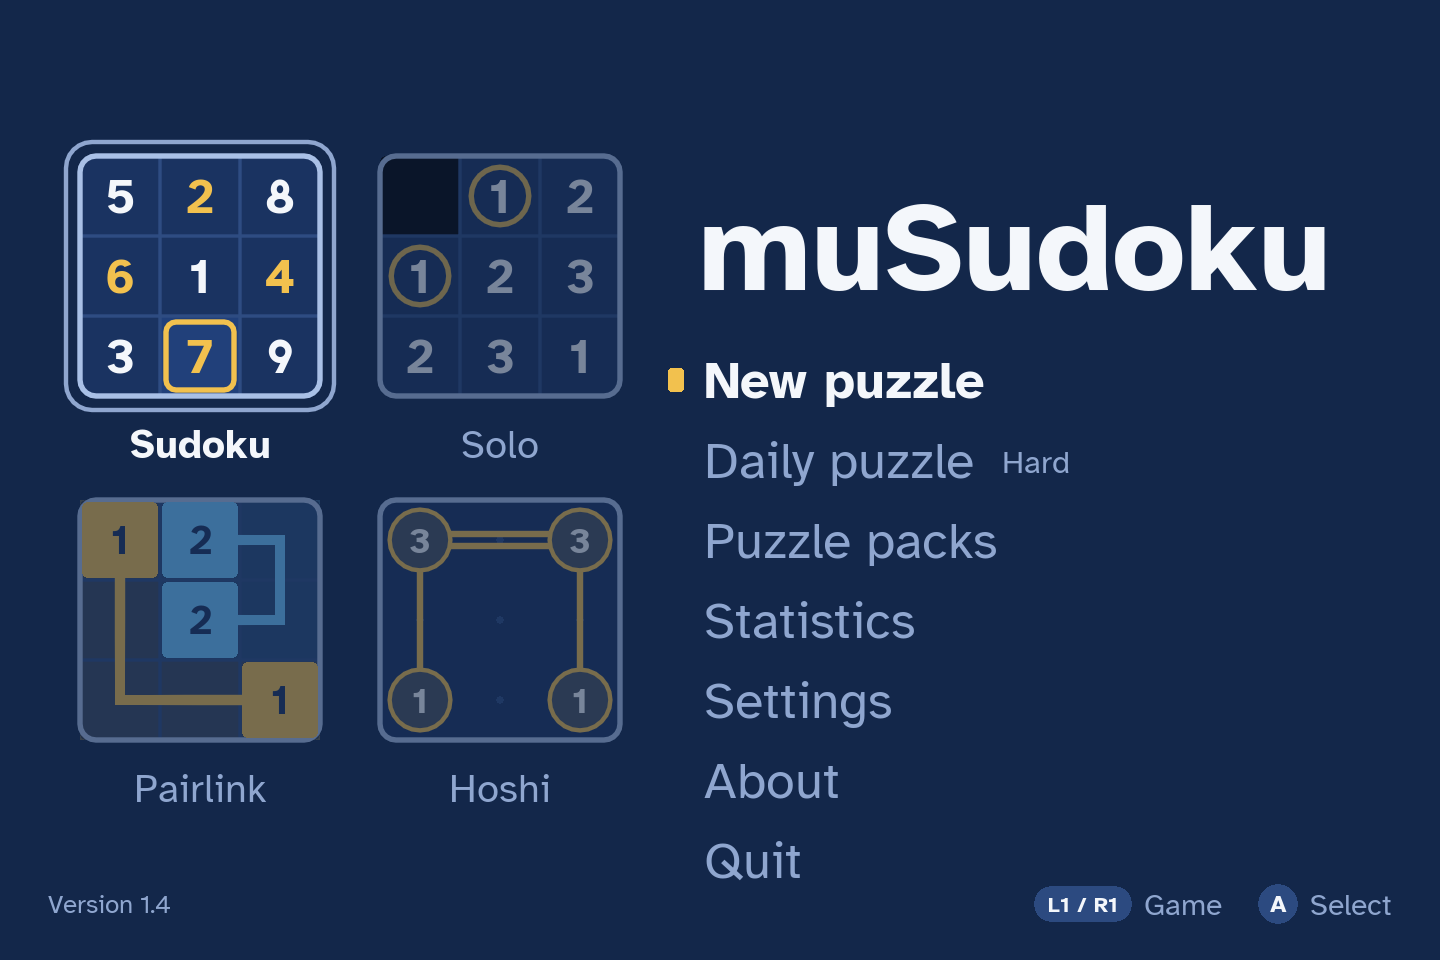
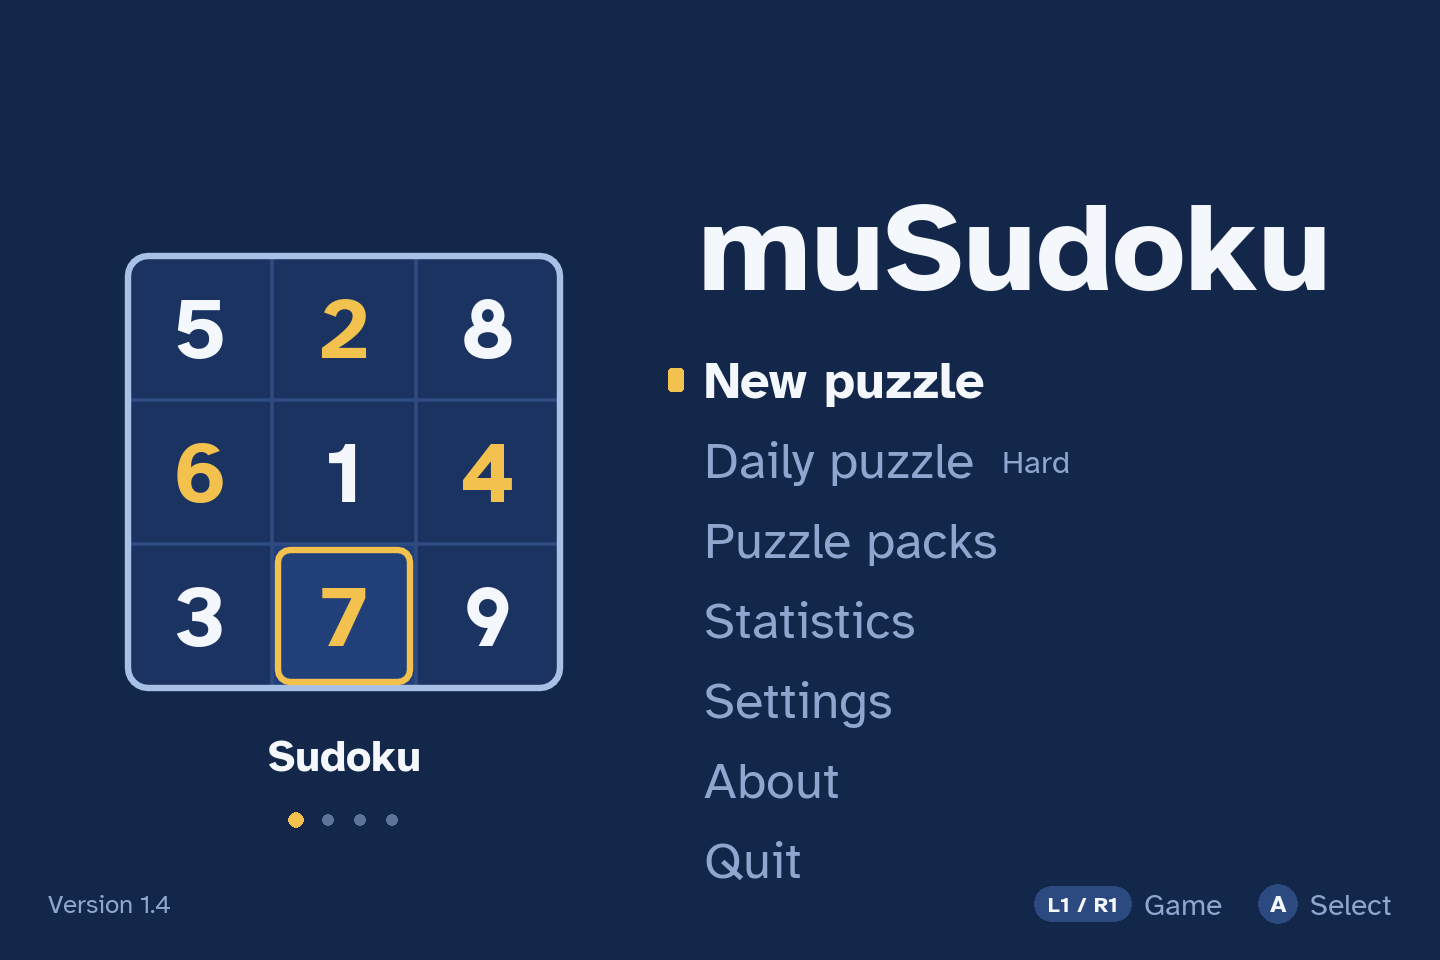
Open the title on Sudoku, switch games with L1 / R1
The title screen showed a box for each of the four games, and remembered
the last one chosen. It now shows one box, the current game's demo, with
its name and a dot per game under it. Every launch starts on Sudoku;
L1 / R1 cycle through Solo, Pairlink and Hoshi and back, and the choice
lasts until the game closes, so it's no longer a saved setting. The
D-pad stays in the menu.

At the bigger size Hoshi's demo hides the water under each bridge, so the
dot between the double bridge's lines no longer shows.

Claude-Session: https://claude.ai/code/session_01J3G1vV3xf6Wx5AMvXjRcVM

diff --git a/README.md b/README.md
@@ -1,12 +1,12 @@
 # muSudoku
 
 Four logic puzzles for handhelds, built with LÖVE 11.5: **Sudoku**, **Solo**,
-**Pairlink** and **Hoshi**. The title screen shows a box for each; pick one with L1 / R1,
-or press left and move between the boxes with the D-pad. It runs on
+**Pairlink** and **Hoshi**. The title screen opens on Sudoku, and L1 / R1 switch to the
+other games. It runs on
 MustardOS, and on other handheld systems through PortMaster. Designed for the Anbernic
 RG34XXSP's 720×480 screen and scaled to fit other resolutions.
 
-<img src="screenshots/title.png" alt="Title screen: a box for each of the four games on the left, with Sudoku chosen" width="49%"> <img src="screenshots/play.png" alt="Sudoku: a Hard puzzle with pencil notes" width="49%">
+<img src="screenshots/title.png" alt="Title screen: a Sudoku box on the left, with the menu beside it" width="49%"> <img src="screenshots/play.png" alt="Sudoku: a Hard puzzle with pencil notes" width="49%">
 <img src="screenshots/hint.png" alt="Sudoku: an explained hint, a naked pair, with the notes it rules out crossed off" width="49%"> <img src="screenshots/solo.png" alt="Solo: a 7×7 Medium puzzle part way through, black shaded cells with rings on the cells kept beside them, and the numbers that still repeat tinted" width="49%">
 <img src="screenshots/pairlink.png" alt="Pairlink: an 8×8 Medium puzzle with six of nine pairs linked and a line being drawn" width="49%"> <img src="screenshots/hoshi.png" alt="Hoshi: a 9×9 Medium puzzle part way through, with a bridge being drawn from an island" width="49%">
 
@@ -65,8 +65,7 @@ runtime that PortMaster already includes.
 
 | Button | What it does |
 |---|---|
-| L1 / R1 on the title screen | Pick a game: Sudoku, Solo, Pairlink or Hoshi |
-| Left on the title screen | Move to the game boxes: the D-pad picks one, A (or right from the right-hand boxes) goes back to the menu |
+| L1 / R1 on the title screen | Switch games: Sudoku, Solo, Pairlink, Hoshi and round again. The title opens on Sudoku |
 | Start / Menu | Pause menu |
 | Menu + Start | Save and quit |
 
@@ -494,7 +493,7 @@ are off. Turning sound on later loads them then.
 `MUSUDOKU_FXSHOTS=1 love game` captures the completion effects mid-animation.
 
 `MUSUDOKU_GAMESHOTS=1 love game` plays through the Solo, Pairlink and Hoshi screens
-(the title's game boxes, new puzzle, play, a link effect, drawing bridges, pause, wins
+(the title with each game, new puzzle, play, a link effect, drawing bridges, pause, wins
 and statistics, in several themes) and saves screenshots named `g*.png`.
 `MUSUDOKU_GAMESHOTS=hoshi` takes only Hoshi's.
 
